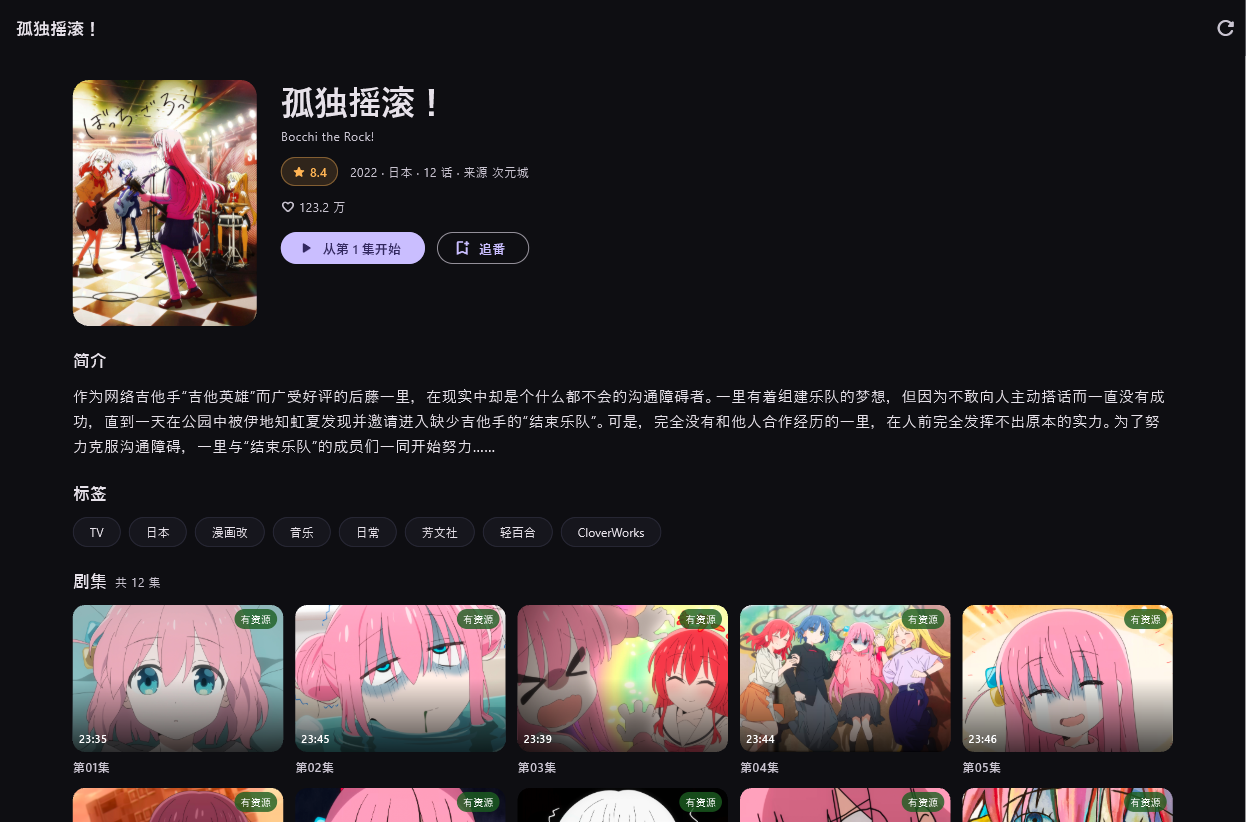
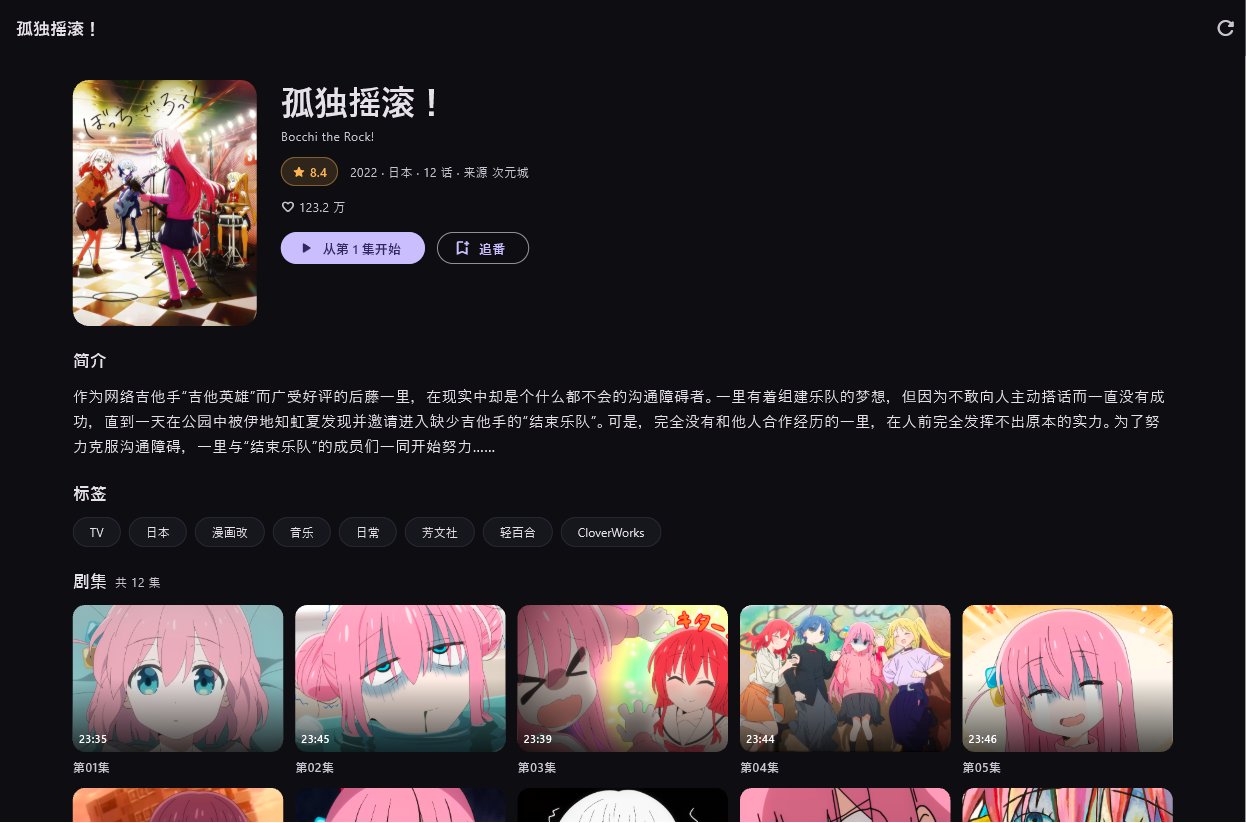
fix(S4.4): 剧集标记改为「能不能播」语义，不再按来源站判断
- 原逻辑：次元城=有资源、B站=无资源（草率，B站条目其实能自动找源播）
- 新语义三态：可播(不标) / 待解析(不标) / 不可播(灰标「缺地址」)
- 详情页用 badgeFor(episode) 回调，未来 S7 换 PlaySourceRegistry
- 修缓存：B 站分集缺 pubDate 视为旧缓存自动重拉（日期现在能显示）
- 98 个测试全绿

diff --git a/lib/features/catalog/widgets/episode_card_grid.dart b/lib/features/catalog/widgets/episode_card_grid.dart
@@ -17,7 +17,7 @@ class EpisodeCardGrid extends StatelessWidget {
     required this.onPlay,
     this.meta = const {},
     this.fallbackCover = '',
-    this.playable = true,
+    this.badgeFor,
   });
 
   final List<AnimeEpisode> episodes;
@@ -29,8 +29,12 @@ class EpisodeCardGrid extends StatelessWidget {
   /// 兜底封面（番剧封面）。
   final String fallbackCover;
 
-  /// 该源是否可直接播放（false 时卡片仍可点，但会走自动找源）。
-  final bool playable;
+  /// 每集的状态标记。
+  ///
+  /// 只用来标注"确实不能播"的情况：
+  /// - 能播 / 可自动找源 → 返回 null（不标注，避免误导）
+  /// - 当前源缺播放地址且没有替代 → 返回如「缺地址」
+  final String? Function(AnimeEpisode episode)? badgeFor;
 
   @override
   Widget build(BuildContext context) {
@@ -56,7 +60,7 @@ class EpisodeCardGrid extends StatelessWidget {
               durationSeconds:
                   extra?.durationSeconds ?? ep.durationSeconds,
               pubDate: extra?.pubDate ?? ep.pubDate,
-              playable: playable || ep.sectionId.isNotEmpty,
+              badge: badgeFor?.call(ep),
               onTap: () => onPlay(ep.index),
             );
           },
@@ -78,7 +82,7 @@ class _EpisodeCard extends StatelessWidget {
     required this.cover,
     required this.durationSeconds,
     required this.pubDate,
-    required this.playable,
+    required this.badge,
     required this.onTap,
   });
 
@@ -86,7 +90,7 @@ class _EpisodeCard extends StatelessWidget {
   final String cover;
   final int durationSeconds;
   final String pubDate;
-  final bool playable;
+  final String? badge;
   final VoidCallback onTap;
 
   @override
@@ -127,27 +131,27 @@ class _EpisodeCard extends StatelessWidget {
                       ),
                     ),
                   ),
-                  Positioned(
-                    right: 6,
-                    top: 4,
-                    child: Container(
-                      padding: const EdgeInsets.symmetric(
-                          horizontal: 6, vertical: 2),
-                      decoration: BoxDecoration(
-                        color: playable
-                            ? const Color(0xCC1B5E20)
-                            : const Color(0xCC424242),
-                        borderRadius: AppRadius.pillAll,
-                      ),
-                      child: Text(
-                        playable ? '有资源' : '无资源',
-                        style: const TextStyle(
-                          color: Colors.white,
-                          fontSize: 10,
+                  if (badge != null)
+                    Positioned(
+                      right: 6,
+                      top: 4,
+                      child: Container(
+                        padding: const EdgeInsets.symmetric(
+                            horizontal: 6, vertical: 2),
+                        decoration: BoxDecoration(
+                          color: const Color(0xB3000000),
+                          borderRadius: AppRadius.pillAll,
+                          border: Border.all(color: Colors.white24),
+                        ),
+                        child: Text(
+                          badge!,
+                          style: const TextStyle(
+                            color: Colors.white70,
+                            fontSize: 10,
+                          ),
                         ),
                       ),
                     ),
-                  ),
                 ],
               ),
             ),

diff --git a/lib/features/catalog/data/catalog_repository.dart b/lib/features/catalog/data/catalog_repository.dart
@@ -184,7 +184,11 @@ class CatalogRepositoryImpl implements CatalogRepository {
           final staleCycani = detail.summary.source == CatalogSource.cycani &&
               detail.episodes.isNotEmpty &&
               detail.episodes.every((e) => e.sectionId.isEmpty);
-          if (!staleCycani) return detail;
+          // B 站分集应带播出日期；全都没有说明是旧缓存（新增字段前写入的）
+          final staleBili = detail.summary.source == CatalogSource.bili &&
+              detail.episodes.isNotEmpty &&
+              detail.episodes.every((e) => e.pubDate.isEmpty);
+          if (!staleCycani && !staleBili) return detail;
           logger.debug('catalog', '缓存缺少 sectionId，重新拉取 $internalId');
         } catch (e) {
           logger.warn('catalog', '缓存解析失败，重新拉取：$e');

diff --git a/lib/features/catalog/detail_page.dart b/lib/features/catalog/detail_page.dart
@@ -202,7 +202,14 @@ class _DetailBody extends ConsumerWidget {
                           .valueOrNull ??
                       const {},
                   fallbackCover: detail.summary.cover,
-                  playable: detail.summary.source == CatalogSource.cycani,
+                  // 只有"当前源缺播放地址、且没有别的路"才标注；能播/可自动找源不标
+                  badgeFor: (ep) {
+                    if (ep.sectionId.isNotEmpty) return null;
+                    if (detail.summary.source == CatalogSource.cycani) {
+                      return '缺地址';
+                    }
+                    return null;
+                  },
                   onPlay: (index) =>
                       _playResolved(context, ref, detail, index),
                 ),

diff --git a/docs/S4-REPORT.md b/docs/S4-REPORT.md
@@ -122,7 +122,32 @@
 
 截图：`docs/assets/s4/3-episode-cards.png`、`docs/assets/s4/4-episode-cards-fallback.png`。
 
-## 十、下一步（拿到 key 后）
+
+## 十、S4.4 修正「有资源 / 无资源」的草率语义
+
+用户指出：原来的标记其实是「**条目来自哪个站**」——次元城=有资源、B 站=无资源，
+可 B 站条目点下去会自动找源，很多都能播；将来接更多源更不成立。
+
+改成"**这一集能不能播**"三态：
+
+| 状态 | 判断 | 显示 |
+|---|---|---|
+| 可播 | 该集有播放地址（sectionId 非空） | 不显示（默认可播，不需要标） |
+| 待解析 | 当前源没地址，但可自动找源 | 不显示（不断言运行时结果） |
+| 不可播 | 当前源缺地址且无替代（如次元城某集没 sectionId） | 灰色「缺地址」 |
+
+实现上不再写死"次元城=B站"，而是详情页传入 `badgeFor(episode)` 回调；
+将来 S7 多源时换成 `PlaySourceRegistry`（每个 adapter 声明支持哪些集），UI 只问 registry。
+
+### 顺带修掉的两处缓存问题
+
+1. `AnimeEpisode.toJson` 缺 `sectionId`/`pubDate` → 已补；
+2. 旧的详情缓存里没有 `pubDate`（B 站分集日期因此不显示）→ 读缓存时检测到
+   「B 站分集全都没有日期」视为过期，自动重拉。
+
+截图：`docs/assets/s4/5-episode-cards-bili.png`（B 站条目也带日期了）。
+
+## 十一、下一步（拿到 key 后）
 
 1. **弹弹play**：实现 `X-AppId`/`X-Timestamp`/`X-Signature` 签名，接入搜索 + 弹幕；
 2. 港澳台：优先走弹弹play（他们覆盖港澳台）；
